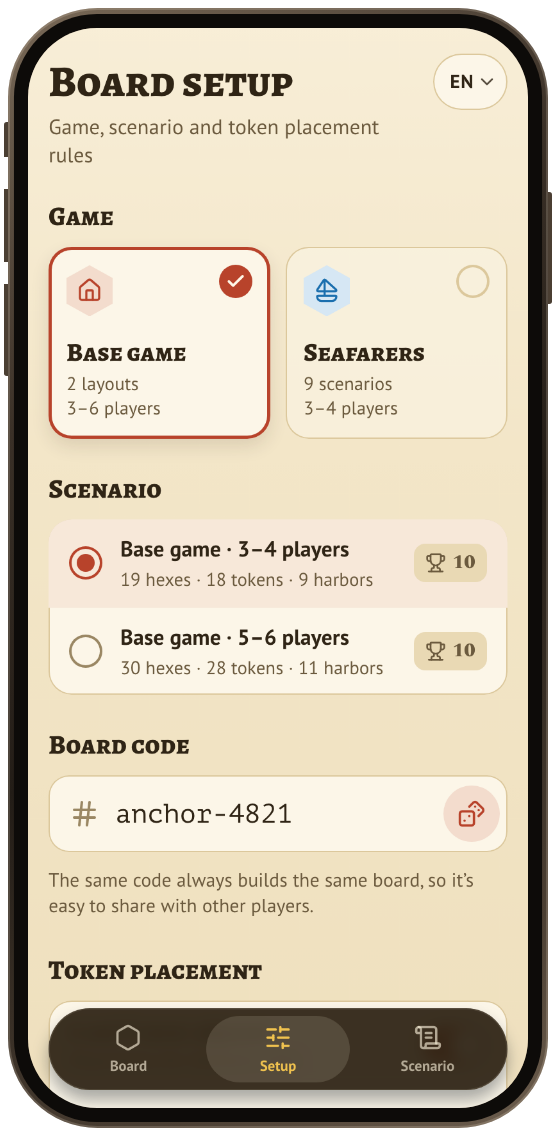
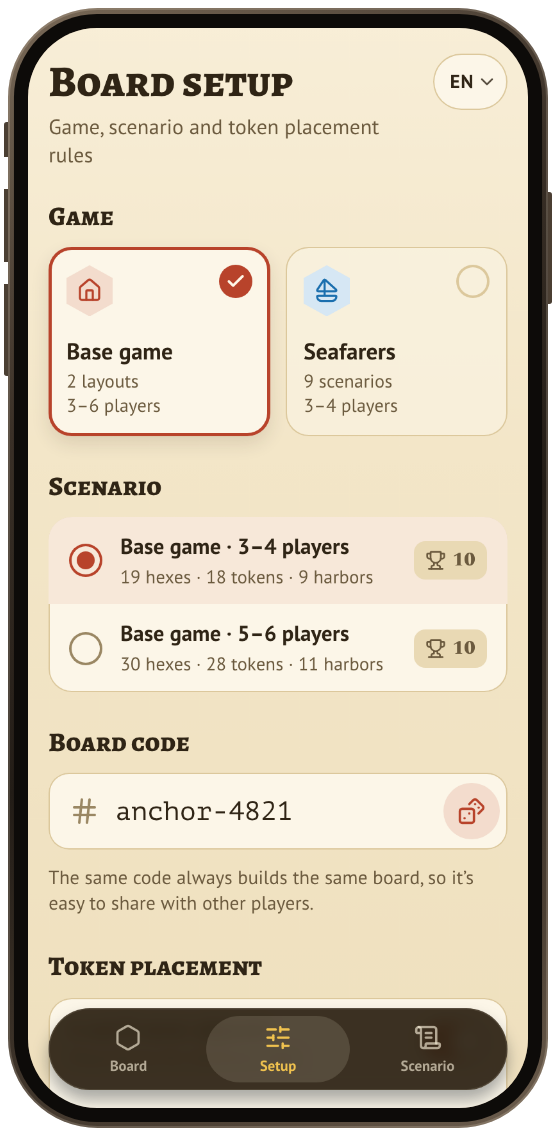
Set buttons and the game tiles in PT Sans; the serif is for headings (#43)
The landing page follows: its buttons, the how-it-works copies of the app's buttons and tiles, and the stat labels. The README's screenshots are redrawn.

diff --git a/site/styles.css b/site/styles.css
@@ -221,9 +221,9 @@ h3 {
   border-radius: 14px;
   background: var(--accent);
   color: #fff7e8;
-  font-family: var(--display);
-  font-weight: 800;
-  font-size: 20px;
+  /* Sans, like every control: the serif is for headings only (#43). */
+  font-weight: 700;
+  font-size: 18px;
   text-decoration: none;
   white-space: nowrap;
   box-shadow:
@@ -252,7 +252,7 @@ h3 {
 .button.small {
   min-height: 46px;
   padding: 0 18px;
-  font-size: 17px;
+  font-size: 16px;
 }
 
 .button.ghost {
@@ -752,10 +752,9 @@ h3 {
 }
 
 .stats-row strong {
-  font-family: var(--display);
-  font-size: 18px;
+  font-size: 15px;
   text-transform: uppercase;
-  letter-spacing: 0.02em;
+  letter-spacing: 0.08em;
 }
 
 .stats-row span {
@@ -897,8 +896,7 @@ h3 {
 
 .mini-tile strong {
   margin-top: 12px;
-  font-family: var(--display);
-  font-size: 18px;
+  font-size: 17px;
 }
 
 .mini-tile small {
@@ -958,9 +956,8 @@ h3 {
   border-radius: 13px;
   background: var(--accent);
   color: #fff7e8;
-  font-family: var(--display);
-  font-weight: 800;
-  font-size: 18px;
+  font-weight: 700;
+  font-size: 17px;
   white-space: nowrap;
   box-shadow:
     inset 0 -3px 0 rgb(0 0 0 / 22%),

diff --git a/src/ui/components/kit.module.css b/src/ui/components/kit.module.css
@@ -9,9 +9,10 @@
   padding: 0 22px;
   border: 0;
   border-radius: var(--radius);
-  font-family: var(--font-display);
-  font-weight: 800;
-  font-size: 20px;
+  /* Sans, like every control: the serif is for headings only (#43). */
+  font-family: var(--font-body);
+  font-weight: 700;
+  font-size: 18px;
   line-height: 1;
   white-space: nowrap;
   transition:

diff --git a/src/ui/screens/screens.module.css b/src/ui/screens/screens.module.css
@@ -340,9 +340,8 @@
 }
 
 .tileName {
-  font-family: var(--font-display);
-  font-weight: 800;
-  font-size: 20px;
+  font-weight: 700;
+  font-size: 18px;
   line-height: 1.1;
 }
 

diff --git a/AGENTS.md b/AGENTS.md
@@ -47,8 +47,9 @@ change to a rule or ruling updates the docs in the same PR.
 - **Faithful to the rulebooks.** Tile, token and harbor counts and victory targets come from the
   rulebooks (`docs/rules.md` lists the pages). Each gap is a ruling in `docs/rules.md`. Don't
   silently change a default.
-- **Fonts.** Alegreya SC for headings, PT Sans for text, Spectral for numerals (Alegreya has old-style
-  figures), PT Mono for codes. All OFL, bundled from `@fontsource`. Don't add another face.
+- **Fonts.** Alegreya SC for headings only: titles and the wordmark. PT Sans for text and every
+  control: buttons, tiles, chips and labels. Spectral for numerals (Alegreya has old-style figures),
+  PT Mono for codes. All OFL, bundled from `@fontsource`. Don't add another face.
 - **Rulebooks are not ours.** Never commit the PDFs. The app points to CATAN GmbH's official rules
   page and names the section to read, not a page of one edition.
 - **Credit and disclaim.** Wherever credits appear: CATAN® and CATAN – Seafarers are trademarks of

diff --git a/docs/design.md b/docs/design.md
@@ -111,8 +111,9 @@ drop in as the last tiles land (−12 px, 160 ms, up to 15 ms apart) → harbors
   (`data-game` on `<html>`).
 - **Tokens** come from the Pencil variables (`src/ui/styles/global.css`); terrain colours are the
   design's `t-*` colours.
-- **Fonts.** Alegreya SC 800 (headings, buttons), PT Sans 400/700 (text), Spectral 800 (numerals),
-  PT Mono (codes). Latin and Cyrillic subsets, bundled, `font-display: block`.
+- **Fonts.** Alegreya SC 800 for headings only; PT Sans 400/700 for text and every control, buttons
+  and the game tiles included (#43); Spectral 800 (numerals), PT Mono (codes). Latin and Cyrillic
+  subsets, bundled, `font-display: block`. The landing page follows the same split.
 - **Board**, layered as screens 01 and 04 of the design:
   - **Tiles:** pointy-top hexes of circumradius 32 (the design's 55 × 64 `Hex` tile) that touch,
     with a hairline between them (black 20 %) and a 3 px bevel inside the lower edges (black 16 %).
